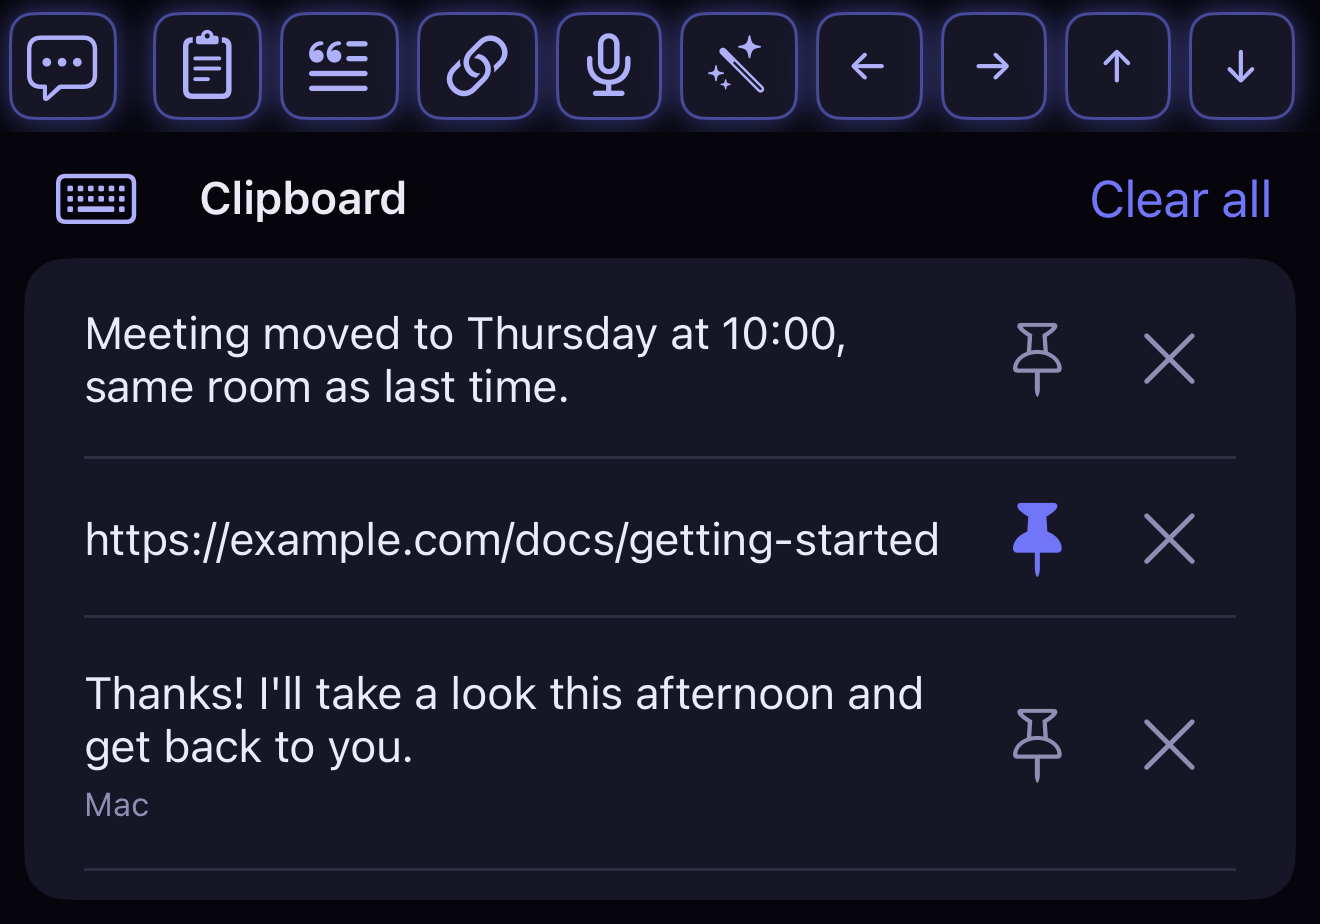
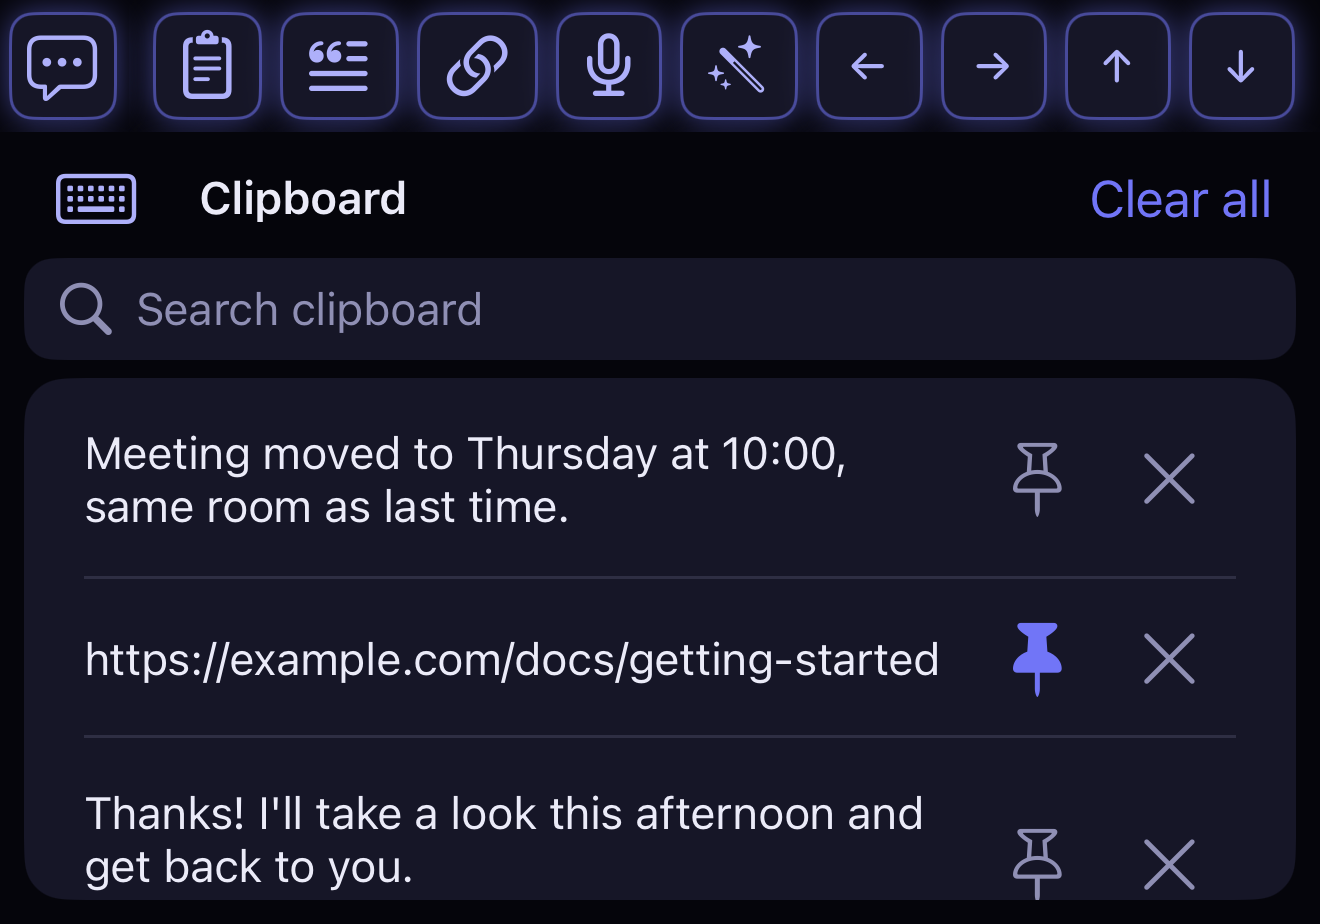
Keyboard screenshots: emoji and search scenes; store slides 8 and 9 show search and every emoji group (#670)

Changed region(s): [[0.0, 0.303, 0.9939, 0.6364], [0.0621, 0.6667, 0.9318, 0.9697], [0.8697, 0.6667, 0.9318, 0.7273]]

diff --git a/app/Tests/ProsperTests/ScreenshotTests.swift b/app/Tests/ProsperTests/ScreenshotTests.swift
@@ -25,6 +25,7 @@ final class ScreenshotTests: XCTestCase {
     private var suite = ""
     private var window: UIWindow!
     private var saved: (Style.Palette, Style.Palette)!
+    private var savedStore = KeyboardSettings.store
     /// Every rig's views, alive until the test ends: the keyboard holds its proxy and bar weakly.
     private var kept: [AnyObject] = []
 
@@ -38,6 +39,11 @@ final class ScreenshotTests: XCTestCase {
         dir = FileManager.default.temporaryDirectory.appendingPathComponent("ScreenshotTests-\(UUID())")
         suite = "ScreenshotTests.\(UUID().uuidString)"
         saved = (Style.palette, Style.bar)
+        // The emoji picker's recents (`EmojiRecents`) from a suite of the test's own, not the App Group.
+        let recents = UserDefaults(suiteName: suite)
+        recents?.set(Self.recents, forKey: EmojiRecents.key)
+        savedStore = KeyboardSettings.store
+        KeyboardSettings.store = { recents }
         let scene = try XCTUnwrap(UIApplication.shared.connectedScenes.first as? UIWindowScene)
         window = UIWindow(windowScene: scene)
         if #available(iOS 17, *) { window.traitOverrides.verticalSizeClass = .regular }
@@ -49,6 +55,7 @@ final class ScreenshotTests: XCTestCase {
         window = nil
         kept = []
         if let saved { (Style.palette, Style.bar) = saved }
+        KeyboardSettings.store = savedStore
         if let dir { try? FileManager.default.removeItem(at: dir) }
         if !suite.isEmpty { UserDefaults(suiteName: suite)?.removePersistentDomain(forName: suite) }
         super.tearDown()
@@ -77,7 +84,7 @@ final class ScreenshotTests: XCTestCase {
         ("Meeting link", "https://meet.example.com/team-sync"),
         ("On my way", "On my way, see you in 10 minutes."),
         ("Out of office", "I'm out of the office until Monday."),
-        ("Sign-off", "Kind regards, and thanks again!"),
+        ("Sign-off", "Kind regards, and talk soon!"),
         ("Thanks", "Thank you so much, really!"),
         ("Wi-Fi", "Network: Guest · Password: example-guest"),
     ]
@@ -92,6 +99,10 @@ final class ScreenshotTests: XCTestCase {
         ("Recipes", "https://recipes.example.com/?q={query}"),
         ("Help center", "https://help.example.com"),
     ]
+
+    /// The emoji picker's Recents, a colourful mix from every group, four columns of five.
+    private static let recents = ["😂", "❤", "👍", "🎉", "🔥", "😍", "🙏", "✨", "☕", "🍕",
+                                  "🥳", "🌸", "🐶", "🌈", "🚀", "🎂", "💯", "🍓", "⚽", "🎶"]
 
     /// The system keyboard's toolbar: the panels' keys first, then the arrows; as many as fit unscrolled.
     private static let toolbar = ["clips", "snips", "qlinks", "mic", "rewrite", "left", "right", "up", "down"]
@@ -133,6 +144,19 @@ final class ScreenshotTests: XCTestCase {
         try shot("clipboard", system(indigo) { $0.bar.showClips(true) }.image)
         try shot("snippets", system(indigo) { $0.bar.showSnippets(true) }.image)
         try shot("quicklinks", system(indigo, text: "café") { $0.bar.showQuicklinks(true) }.image)
+        // Filter mode (#665): a query typed on its own keys, two rows of ranked results.
+        try shot("clipboard-search", system(indigo) { rig in
+            rig.bar.showClips(true)
+            try self.search(rig, "exam")
+        }.image)
+        try shot("snippets-search", system(indigo) { rig in
+            rig.bar.showSnippets(true)
+            try self.search(rig, "thanks")
+        }.image)
+
+        // The picker (#664) as the hold menu's Emoji opens it, in its slide's Neon: four columns of Recents, then
+        // Smileys & People. Not five-plus of Smileys: 🫡 (the 36th) is drawn clipped on its right.
+        try shot("emoji", system(look(.neon)) { $0.kb.showEmoji(true) }.image)
 
         var daylight = look(.daylight)
         daylight.numbers = .key
@@ -166,13 +190,13 @@ final class ScreenshotTests: XCTestCase {
                   colours: (0x0B1018, 0x1A1238, 0x8B7CFF), ink: .white,
                   [shots["theme-blossom"], shots["theme-amber"], shots["theme-mixed"], shots["theme-dark"]], overlap: 0.475)   // cut between the q and a rows
         try slide("iphone67_8-clipboard", "Saved, a tap away",
-                  "Clipboard history, snippets and quicklinks.",
+                  "Clipboard, snippets and quicklinks, with search.",
                   colours: (0x080813, 0x1E1E38, 0x7075FF), ink: .white,
-                  [shots["clipboard"], shots["snippets"], shots["quicklinks"]])
+                  [shots["clipboard"], shots["snippets-search"], shots["quicklinks"]])
         try slide("iphone67_9-menu", "Everything a hold away",
-                  "Panels, numbers and the look, from the keys.",
+                  "Panels, emoji and the look, from the keys.",
                   colours: (0x05080D, 0x0B1E2E, 0x21CCFF), ink: .white,
-                  [shots["menu"], shots["appearance"], shots["numpad"]])
+                  [shots["menu"], shots["emoji"], shots["appearance"]])
         try slide("iphone67_10-ai", "Write it better, or say it",
                   "On-device Fix, Rewrite, Summarize, dictation.",
                   colours: (0xF5F0FA, 0xE3D8F0, 0x8945E3), ink: UIColor(hex: 0x241434),
@@ -269,6 +293,16 @@ final class ScreenshotTests: XCTestCase {
         return try draw(view)
     }
 
+    /// The open panel's filter mode with `query` typed into it, key by key.
+    private func search(_ rig: Rig, _ query: String) throws {
+        let panel = try XCTUnwrap(rig.bar.panel)
+        panel.filter(true)
+        let filter = try XCTUnwrap(panel.filter)
+        for c in query { filter.type(String(c)) }
+        XCTAssertGreaterThanOrEqual(filter.matches.count, 2, query)
+        rig.view.layoutIfNeeded()
+    }
+
     private func clipHistory() -> ClipboardHistory {
         let history = ClipboardHistory(dir: dir.appendingPathComponent("Clips-\(UUID())"))
         let now = Date()
@@ -293,14 +327,18 @@ final class ScreenshotTests: XCTestCase {
 
     // MARK: - Drawing
 
-    /// `view` alone in the window, `height` tall, laid out.
+    /// `view` alone in the window, `height` tall, laid out. Mid-screen, clear of the Dynamic
+    /// Island's and the home indicator's safe area, as a keyboard's view has none: at the top,
+    /// filter mode's results (#665), which reach over the bar, took the island's inset.
     private func place(_ view: UIView, height: CGFloat) throws {
         XCTAssertGreaterThan(height, 100)
         window.subviews.forEach { $0.removeFromSuperview() }
-        window.frame = CGRect(x: 0, y: 0, width: Self.width, height: height)
+        let screen = try XCTUnwrap(window.windowScene).screen.bounds
+        window.frame = CGRect(x: 0, y: ((screen.height - height) / 2).rounded(), width: Self.width, height: height)
         view.frame = window.bounds
         window.addSubview(view)
         for _ in 0..<3 { window.layoutIfNeeded() }
+        XCTAssertEqual(view.safeAreaInsets, .zero, "a keyboard has no safe area")
     }
 
     /// The view as the screen shows it, at 3x and opaque: `drawHierarchy` keeps the caps' glow

diff --git a/README.md b/README.md
@@ -26,8 +26,8 @@ demo session lets you explore without a Mac.
 ## Keyboards
 
 The terminal's own keyboard, and Prosper as a system keyboard in every app: a toolbar of
-edit keys, the clipboard history, snippets, quicklinks, dictation and on-device rewriting,
-in any of its themes.
+edit keys, the clipboard history, snippets and quicklinks (each searchable), every emoji
+group, dictation and on-device rewriting, in any of its themes.
 
 | Terminal (Neon) | Dark | Blossom |
 |-----------------|------|---------|
@@ -40,6 +40,8 @@ in any of its themes.
 | <img src="store/keyboard/keyboard-numpad.png" width="260"> | <img src="store/keyboard/keyboard-clipboard.png" width="260"> | <img src="store/keyboard/keyboard-snippets.png" width="260"> |
 | **Quicklinks** | **Fix, Rewrite, Summarize** | **Dictation** |
 | <img src="store/keyboard/keyboard-quicklinks.png" width="260"> | <img src="store/keyboard/keyboard-ai.png" width="260"> | <img src="store/keyboard/keyboard-dictation.png" width="260"> |
+| **Emoji, every group** | **Search the clipboard** | **Search snippets** |
+| <img src="store/keyboard/keyboard-emoji.png" width="260"> | <img src="store/keyboard/keyboard-clipboard-search.png" width="260"> | <img src="store/keyboard/keyboard-snippets-search.png" width="260"> |
 | **Key size: Normal** | **Medium** | **Large** |
 | <img src="store/keyboard/keyboard-size-normal.png" width="260"> | <img src="store/keyboard/keyboard-size-medium.png" width="260"> | <img src="store/keyboard/keyboard-size-large.png" width="260"> |
 
